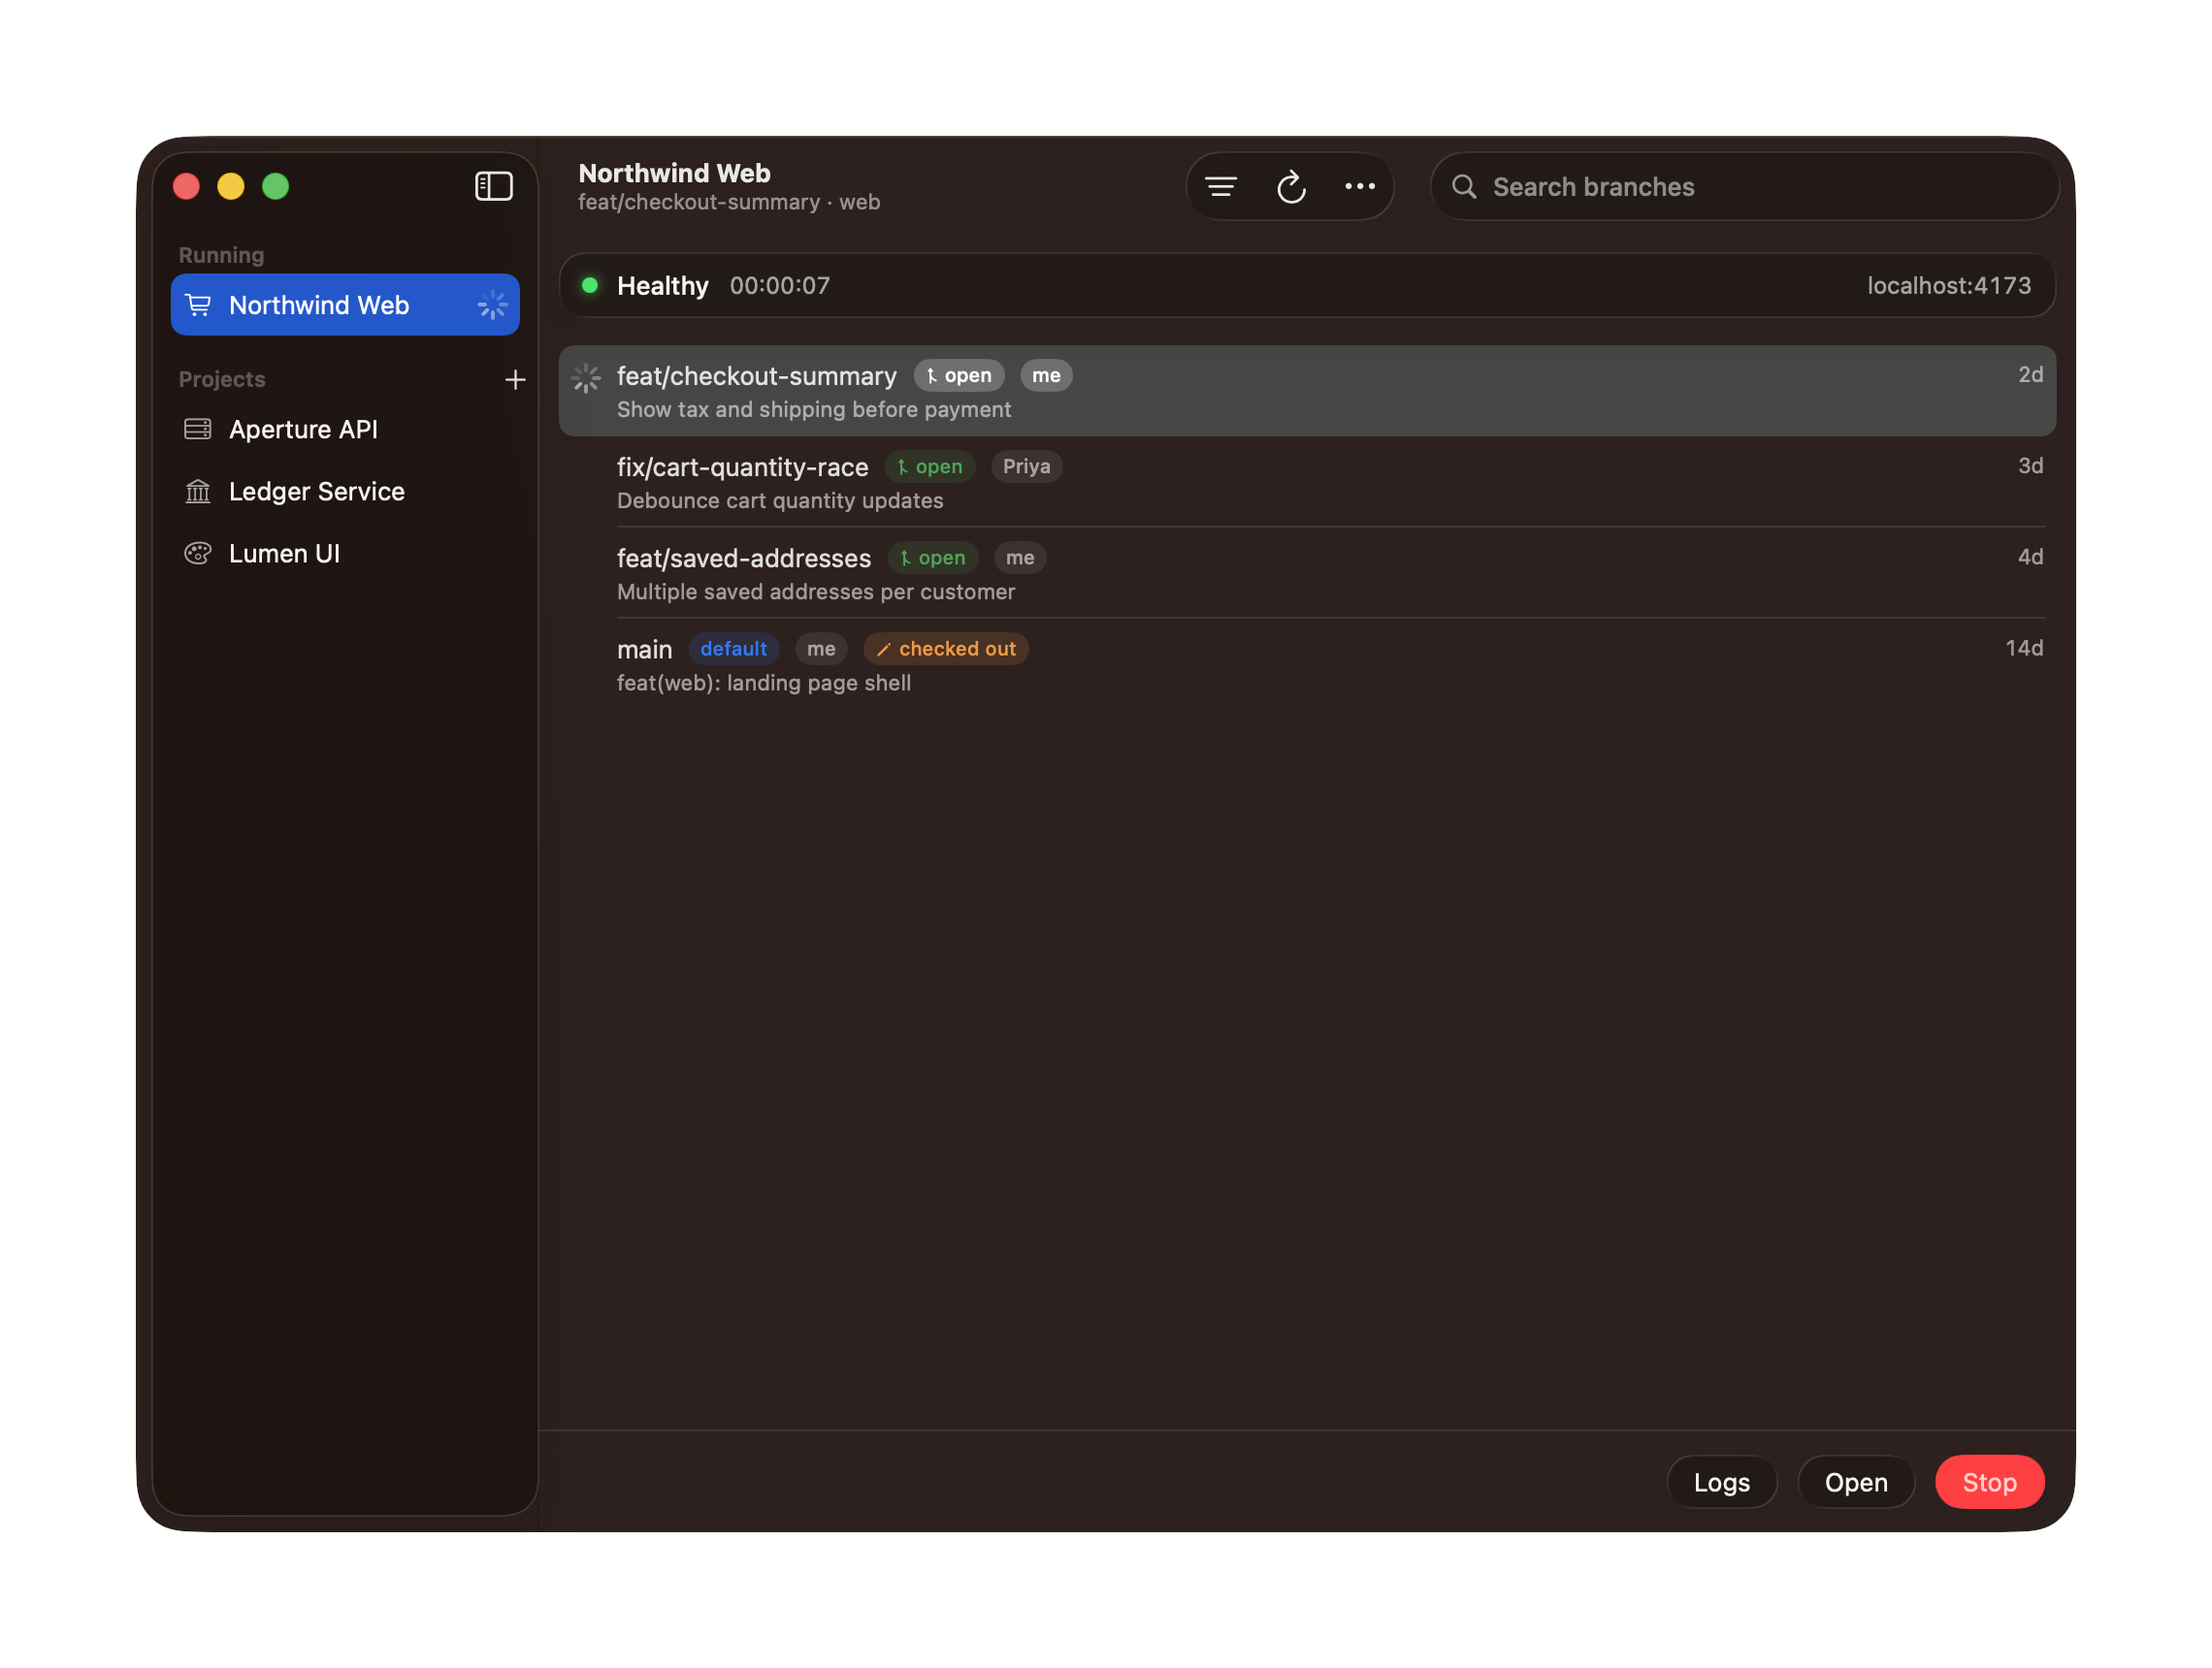
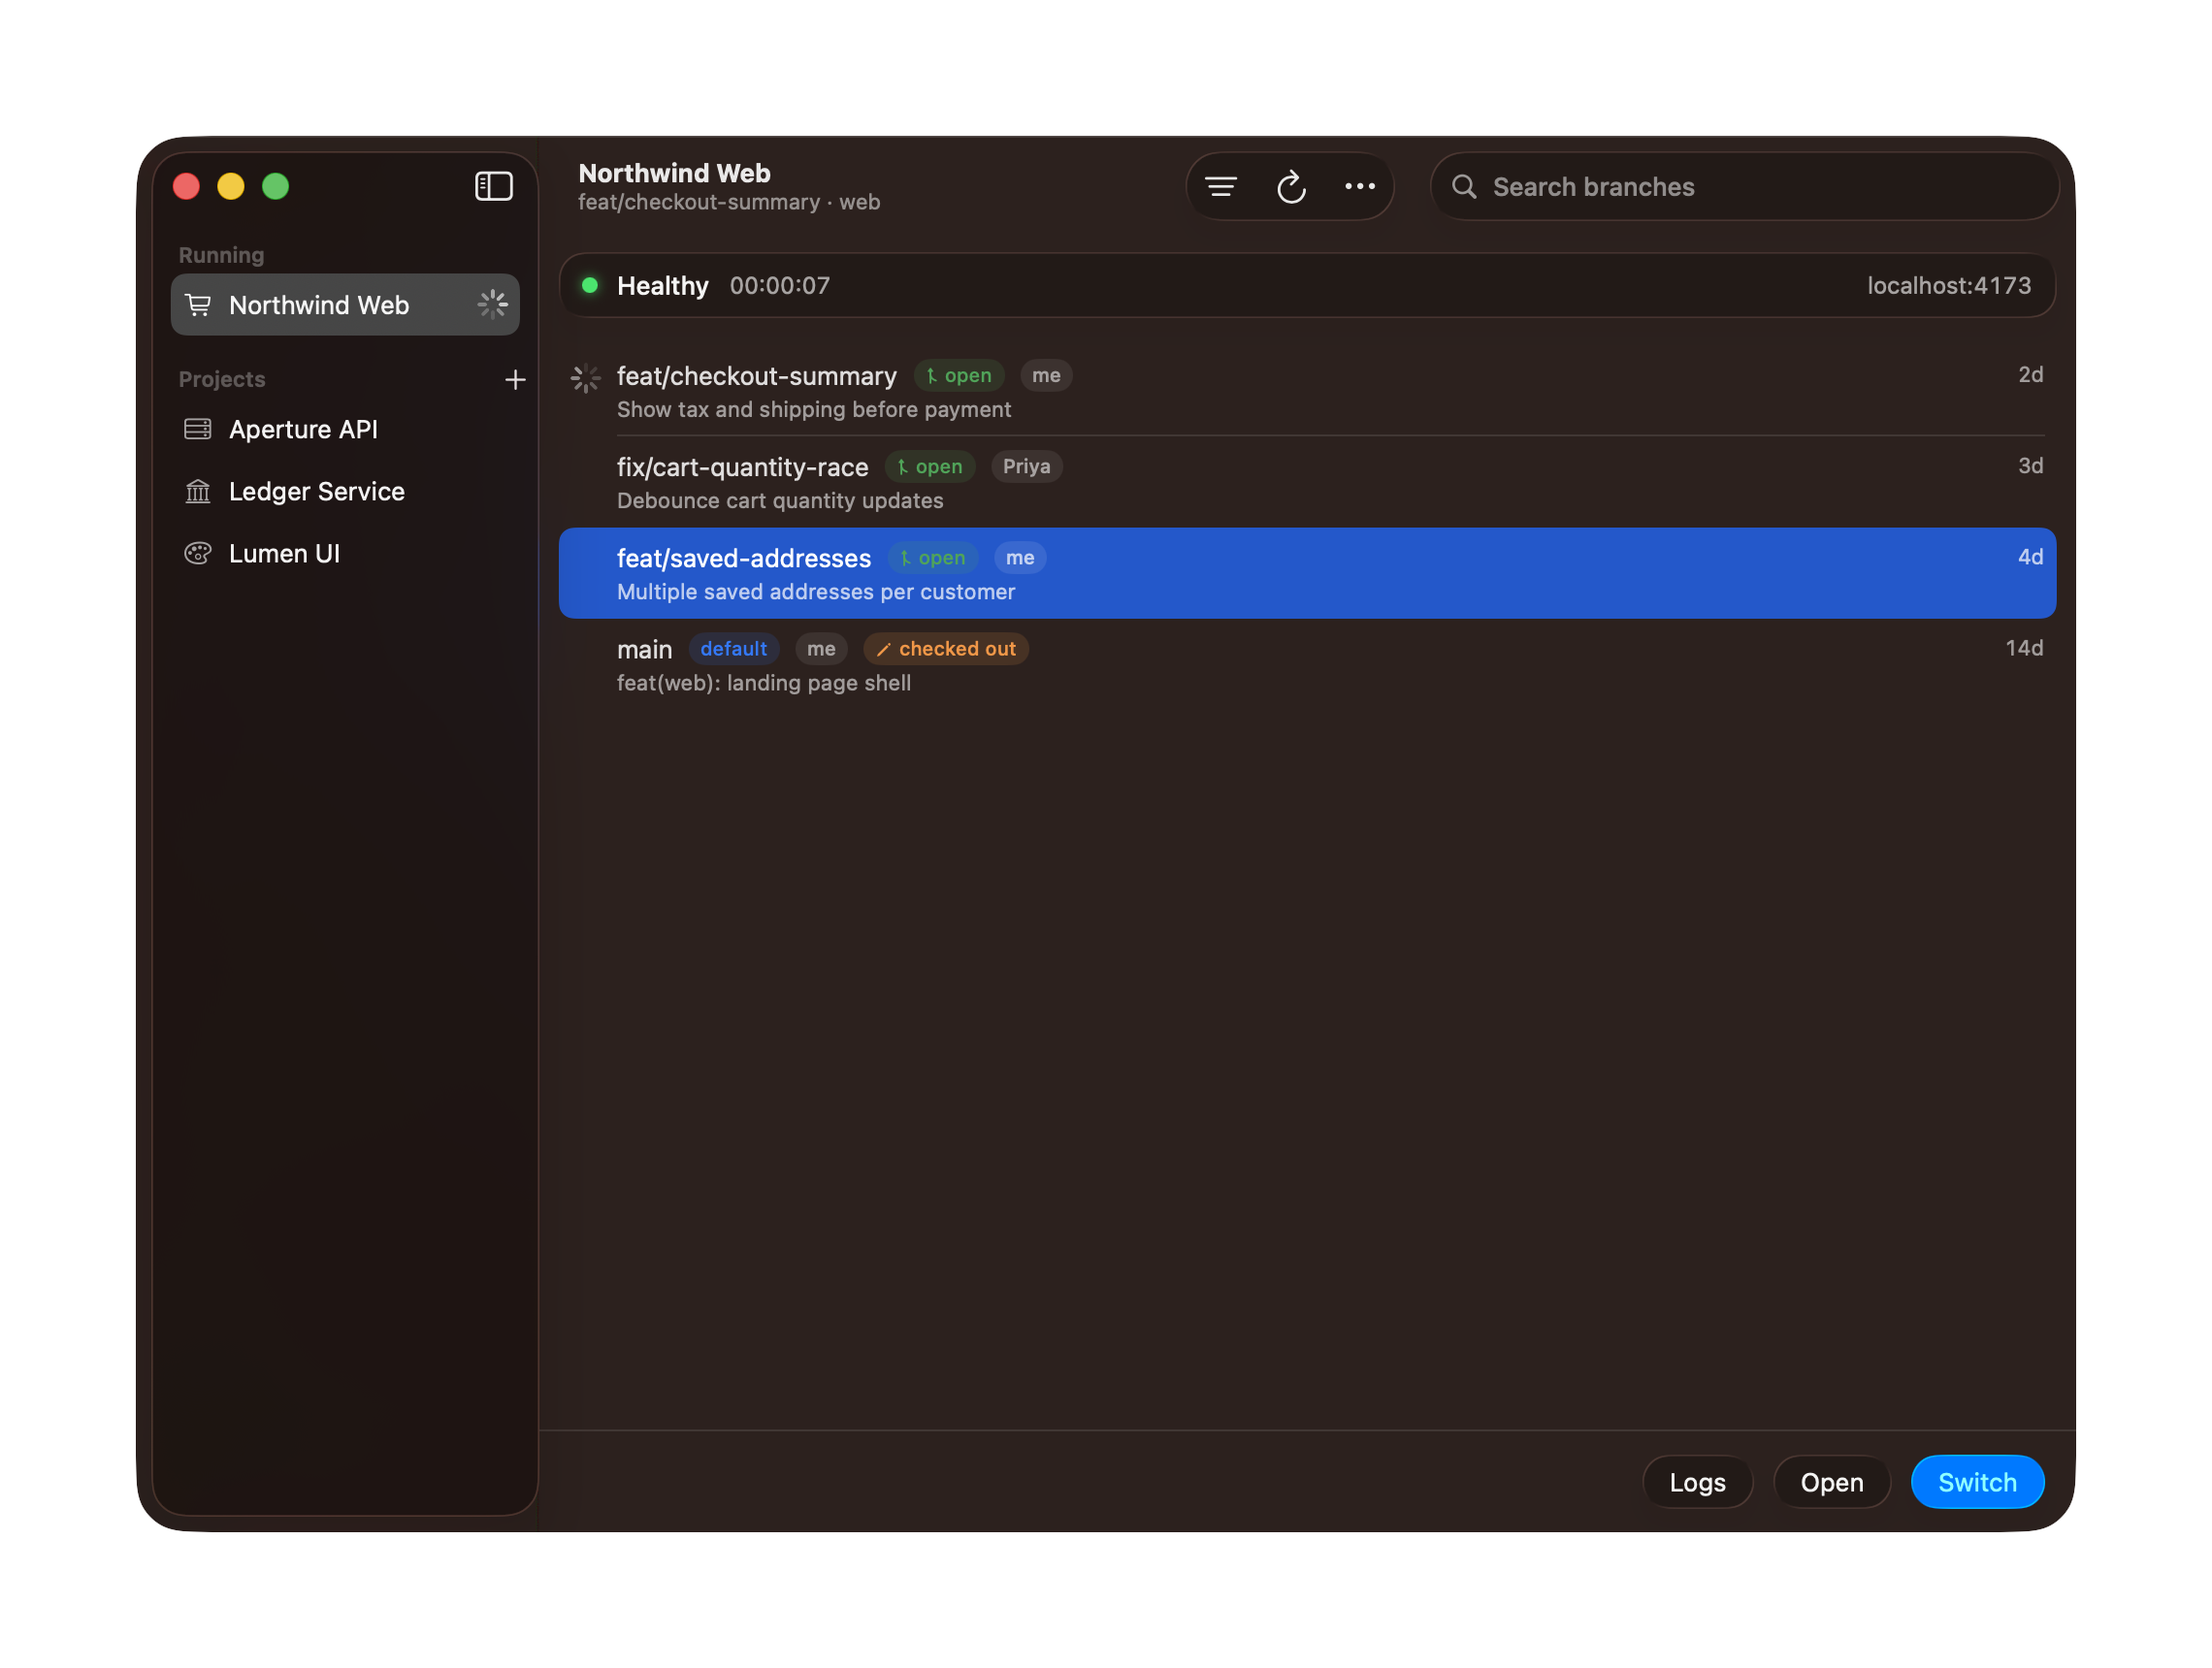
One chip treatment, so a badge keeps its colour when selected
Badges dropped their colour on a selected row and became translucent
white, so `open`, `merged` and `checked out` all looked alike exactly
where you were looking hardest. The concern behind it was real — a badge
tinted the accent colour vanishes into an accent-filled row — but the fix
threw away the meaning to solve it.

A solid light chip kept the colour and looked wrong, so this is the plain
chip everywhere: the colour on a faint wash of itself. Green reads as
green against the selection. Nine references and six call-site arguments
go with it, which the review wanted anyway.

Worth knowing: `default` is drawn in the accent colour, so on a selected
row it is blue on blue. It is the one badge this does not serve, and
giving it a fixed colour of its own would fix it.

diff --git a/app/RunBranch.swift b/app/RunBranch.swift
@@ -956,13 +956,6 @@ struct Badge: View {
     let text: String
     var symbol: String? = nil
     var color: Color = .secondary
-    /// A selected row is painted in the accent colour, so a badge that paints
-    /// itself the accent colour disappears into it — which is exactly what
-    /// happened to `default`. On selection every badge drops its own colour
-    /// and becomes translucent white, which reads against any accent the user
-    /// has chosen, including the ones we cannot predict.
-    var onSelection: Bool = false
-
     var body: some View {
         HStack(spacing: 3) {
             if let symbol, !symbol.isEmpty {
@@ -970,11 +963,10 @@ struct Badge: View {
             }
             Text(text).font(.system(size: 10, weight: .medium))
         }
-        .foregroundStyle(onSelection ? AnyShapeStyle(.white) : AnyShapeStyle(color))
+        .foregroundStyle(color)
         .padding(.horizontal, 6)
         .padding(.vertical, 2)
-        .background(onSelection ? Color.white.opacity(0.22) : color.opacity(0.14),
-                    in: Capsule())
+        .background(color.opacity(0.14), in: Capsule())
     }
 }
 
@@ -1090,23 +1082,23 @@ struct BranchRow: View {
                         .truncationMode(.middle)
 
                     if branch.isDefault {
-                        Badge(text: "default", color: .accentColor, onSelection: isSelected)
+                        Badge(text: "default", color: .accentColor)
                     } else if let l = branch.pr.label {
-                        Badge(text: l, symbol: branch.pr.symbol, color: branch.pr.color, onSelection: isSelected)
+                        Badge(text: l, symbol: branch.pr.symbol, color: branch.pr.color)
                     }
-                    Badge(text: branch.owner, onSelection: isSelected)
+                    Badge(text: branch.owner)
                     // What is actually being worked on. This is the branch your
                     // checkout is sitting on, so it is the one whose edits are
                     // live on disk — and the only one that can be run in place.
                     if branch.isCurrent {
                         Badge(text: "checked out", symbol: "pencil",
-                              color: .orange, onSelection: isSelected)
+                              color: .orange)
                     } else if !branch.checkedOutAt.isEmpty {
                         Badge(text: "in another worktree", symbol: "arrow.triangle.branch",
-                              color: .purple, onSelection: isSelected)
+                              color: .purple)
                     }
                     if !isLive && branch.ready {
-                        Badge(text: "ready", symbol: "bolt.fill", color: .green, onSelection: isSelected)
+                        Badge(text: "ready", symbol: "bolt.fill", color: .green)
                     }
                 }
 
